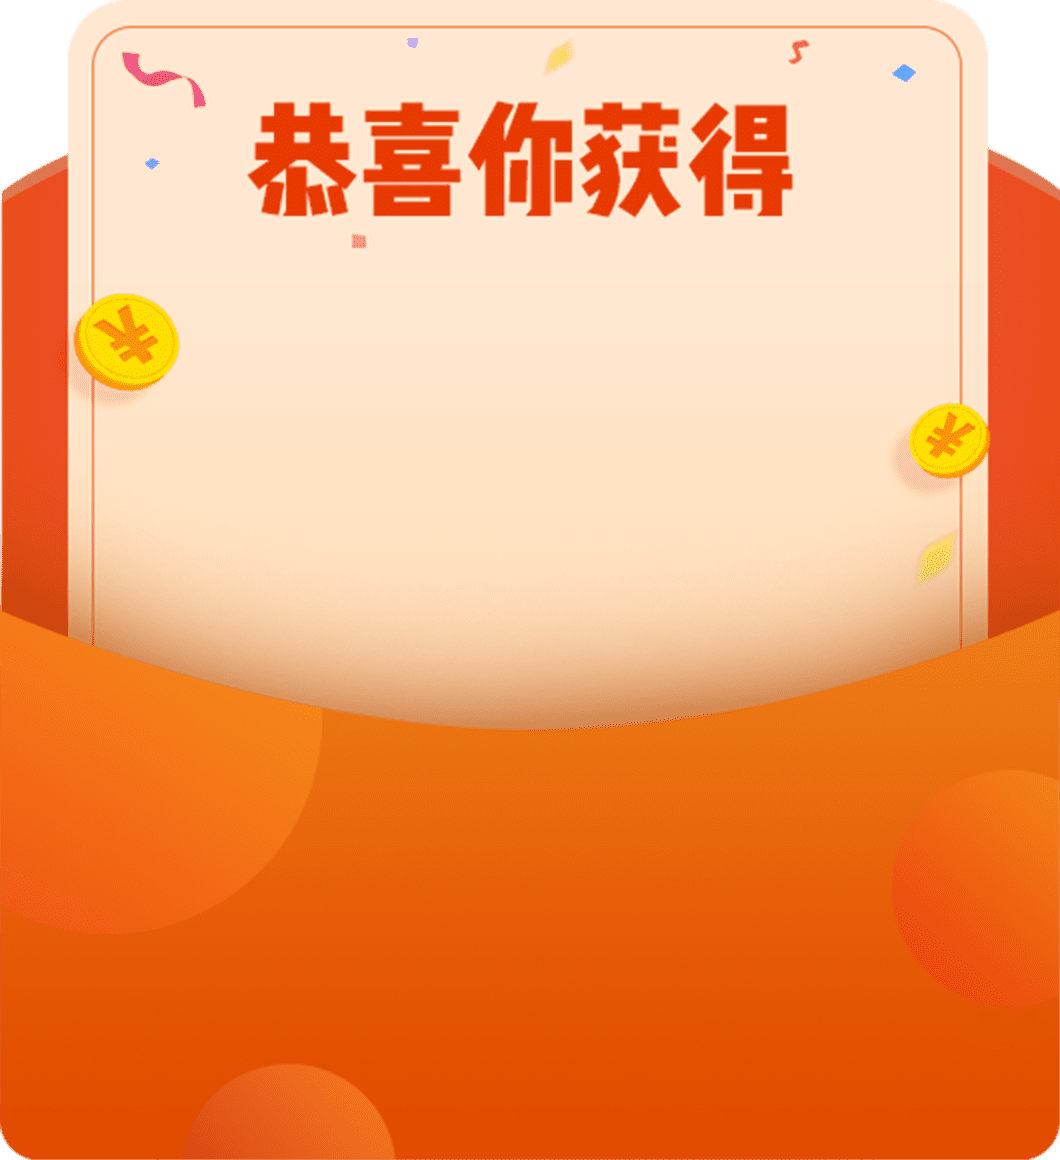
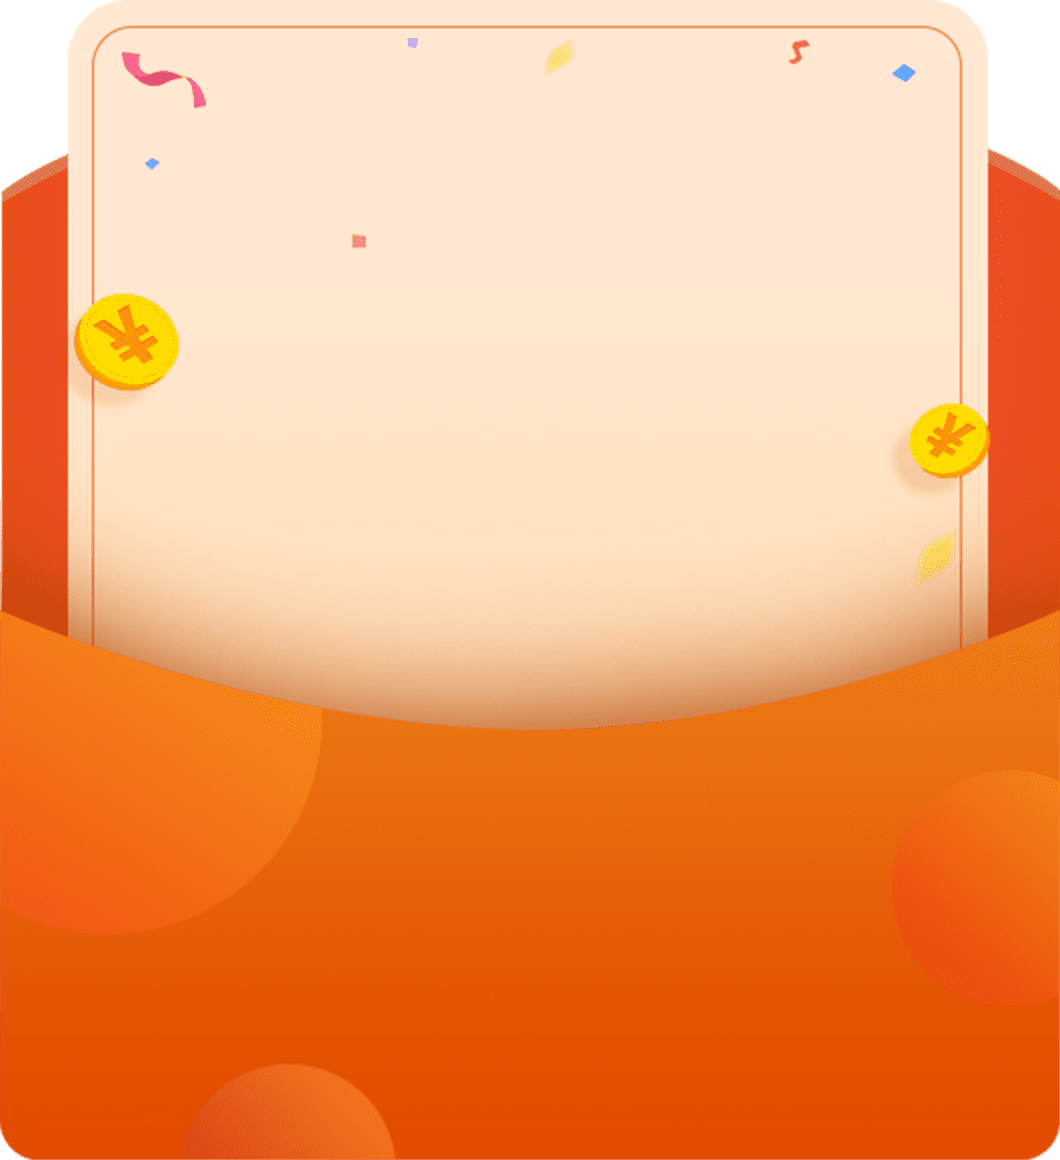
fix 弹窗 title图片做成适配

diff --git a/src/views/taskgames/component/ui_compontents/taskAwardPop/index.vue b/src/views/taskgames/component/ui_compontents/taskAwardPop/index.vue
@@ -5,6 +5,7 @@
     </transition>
     <!--<img src="./images/shine.png" alt="" class="shine">-->
     <div class="modal-content">
+      <img :src="titleImage" alt="" class="title">
       <div class="content">
         <div class="img">
           <img :src="awards.awardsImage|filter" alt="" v-if="!awardsImage">
@@ -41,6 +42,9 @@
       },
       awardsImage:{
         default:''
+      },
+      titleImage:{
+        default:`${require('./images/titlebg.png')}`
       }
     },
     methods: {
@@ -154,7 +158,14 @@
   .mask-enter {
     opacity: 0;
   }
-
+  .title{
+    height: .6rem;
+    position: absolute;
+    top:.5rem;
+    left: 0;
+    right: 0;
+    margin: 0 auto;
+  }
   .mask-enter-active {
     transition: opacity 0.3s;
   }

diff --git a/src/views/taskgames/component/entranceHeader.vue b/src/views/taskgames/component/entranceHeader.vue
@@ -40,7 +40,7 @@
         </div>
       </div>
     </common-pop>
-    <task-award-pop v-if="isDailyReceivePop" :awardsImage="`${require('../img/cat/cat_leaf.png')}`"  :awards="receiveAwards" info="升级招财猫权益，领更多红包" @close="isDailyReceivePopClose"></task-award-pop>
+    <task-award-pop v-if="isDailyReceivePop" :awardsImage="`${require('../img/cat/cat_leaf.png')}`"  :awards="receiveAwards" info="升级招财猫权益，领更多红包" @close="isDailyReceivePopClose" :titleImage="`${require('../img/cat/supply_success.png')}`"></task-award-pop>
   </div>
 </template>
 <script>
